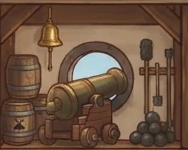
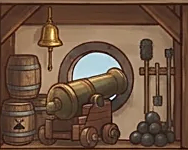
Корабль: мягкая вырезка из неба — канаты на месте, без светлой каймы, чётче

diff --git a/tools/sprites/ship_rooms.py b/tools/sprites/ship_rooms.py
@@ -28,7 +28,8 @@ UPGRADES = {"tavern": "up_tavern", "cannon_deck": "up_cannon", "hold": "up_hold"
 LOCKED_FROM = ("locked", "training_deck")   # заколоченная комната: рисунок и чья рамка
 
 
-def without_sky(img):
+def sky_mask(img):
+    """Точно небо: цвет неба, связанный с краем рисунка, плюс крупные просветы выше корпуса."""
     a = np.asarray(img).astype(int)
     r, g, b = a[..., 0], a[..., 1], a[..., 2]
     sky = (b - r >= 4) & ((r + g + b) > 360)
@@ -45,11 +46,44 @@ def without_sky(img):
     big = np.asarray(Image.fromarray(sky.astype(np.uint8) * 255)
                      .filter(ImageFilter.MinFilter(k)).filter(ImageFilter.MaxFilter(k))) > 0
     big[int(h * 0.45):] = False
-    bg |= big & sky
-    alpha = Image.fromarray((~bg * 255).astype(np.uint8)).filter(ImageFilter.MinFilter(3))
-    alpha = alpha.filter(ImageFilter.MaxFilter(3)).filter(ImageFilter.GaussianBlur(0.8))
-    out = img.convert("RGBA")
-    out.putalpha(alpha)
+    return bg | (big & sky)
+
+
+def blur(a, r):
+    """Размытие (три прохода окна 2r+1 по осям) — для float-слоёв, PIL их не размывает."""
+    out = a.astype(np.float32)
+    for axis in (0, 1):
+        for _ in range(3):
+            pad = [(0, 0)] * out.ndim
+            pad[axis] = (r + 1, r)
+            c = np.cumsum(np.pad(out, pad, mode="edge"), axis=axis)
+            hi = np.take(c, np.arange(2 * r + 1, c.shape[axis]), axis=axis)
+            lo = np.take(c, np.arange(0, c.shape[axis] - 2 * r - 1), axis=axis)
+            out = (hi - lo) / (2 * r + 1)
+    return out
+
+
+def without_sky(img, sharpen=True):
+    """Мягкая вырезка: у края и на тонких канатах альфа — по отличию от цвета неба за ними,
+    цвет очищен от неба (без светлой каймы). Внутри корабля — непрозрачно."""
+    src = np.asarray(img.convert("RGB")).astype(np.float32)
+    bg = sky_mask(img)
+    # Цвет неба везде: размазанное небо, нормированное на его долю.
+    wgt = bg.astype(np.float32)[..., None]
+    sky = blur(src * wgt, 12) / np.maximum(blur(wgt, 12), 1e-3)
+    sure = Image.fromarray((~bg).astype(np.uint8) * 255).filter(ImageFilter.MinFilter(5))
+    sure = np.asarray(sure) > 0
+    dist = np.sqrt(((src - sky) ** 2).sum(axis=2))
+    alpha = np.clip((dist - 12) / 70, 0, 1)
+    alpha[sure] = 1
+    alpha[bg & (dist < 30)] = 0
+    a = alpha[..., None]
+    fg = np.where(a > 0.04, (src - (1 - a) * sky) / np.maximum(a, 0.04), src)
+    out = Image.fromarray(np.dstack([fg.clip(0, 255), alpha * 255]).astype(np.uint8), "RGBA")
+    if sharpen:
+        rgb = out.convert("RGB").filter(ImageFilter.UnsharpMask(1.6, 70, 2))
+        rgb.putalpha(out.getchannel("A"))
+        out = rgb
     return out
 
 
